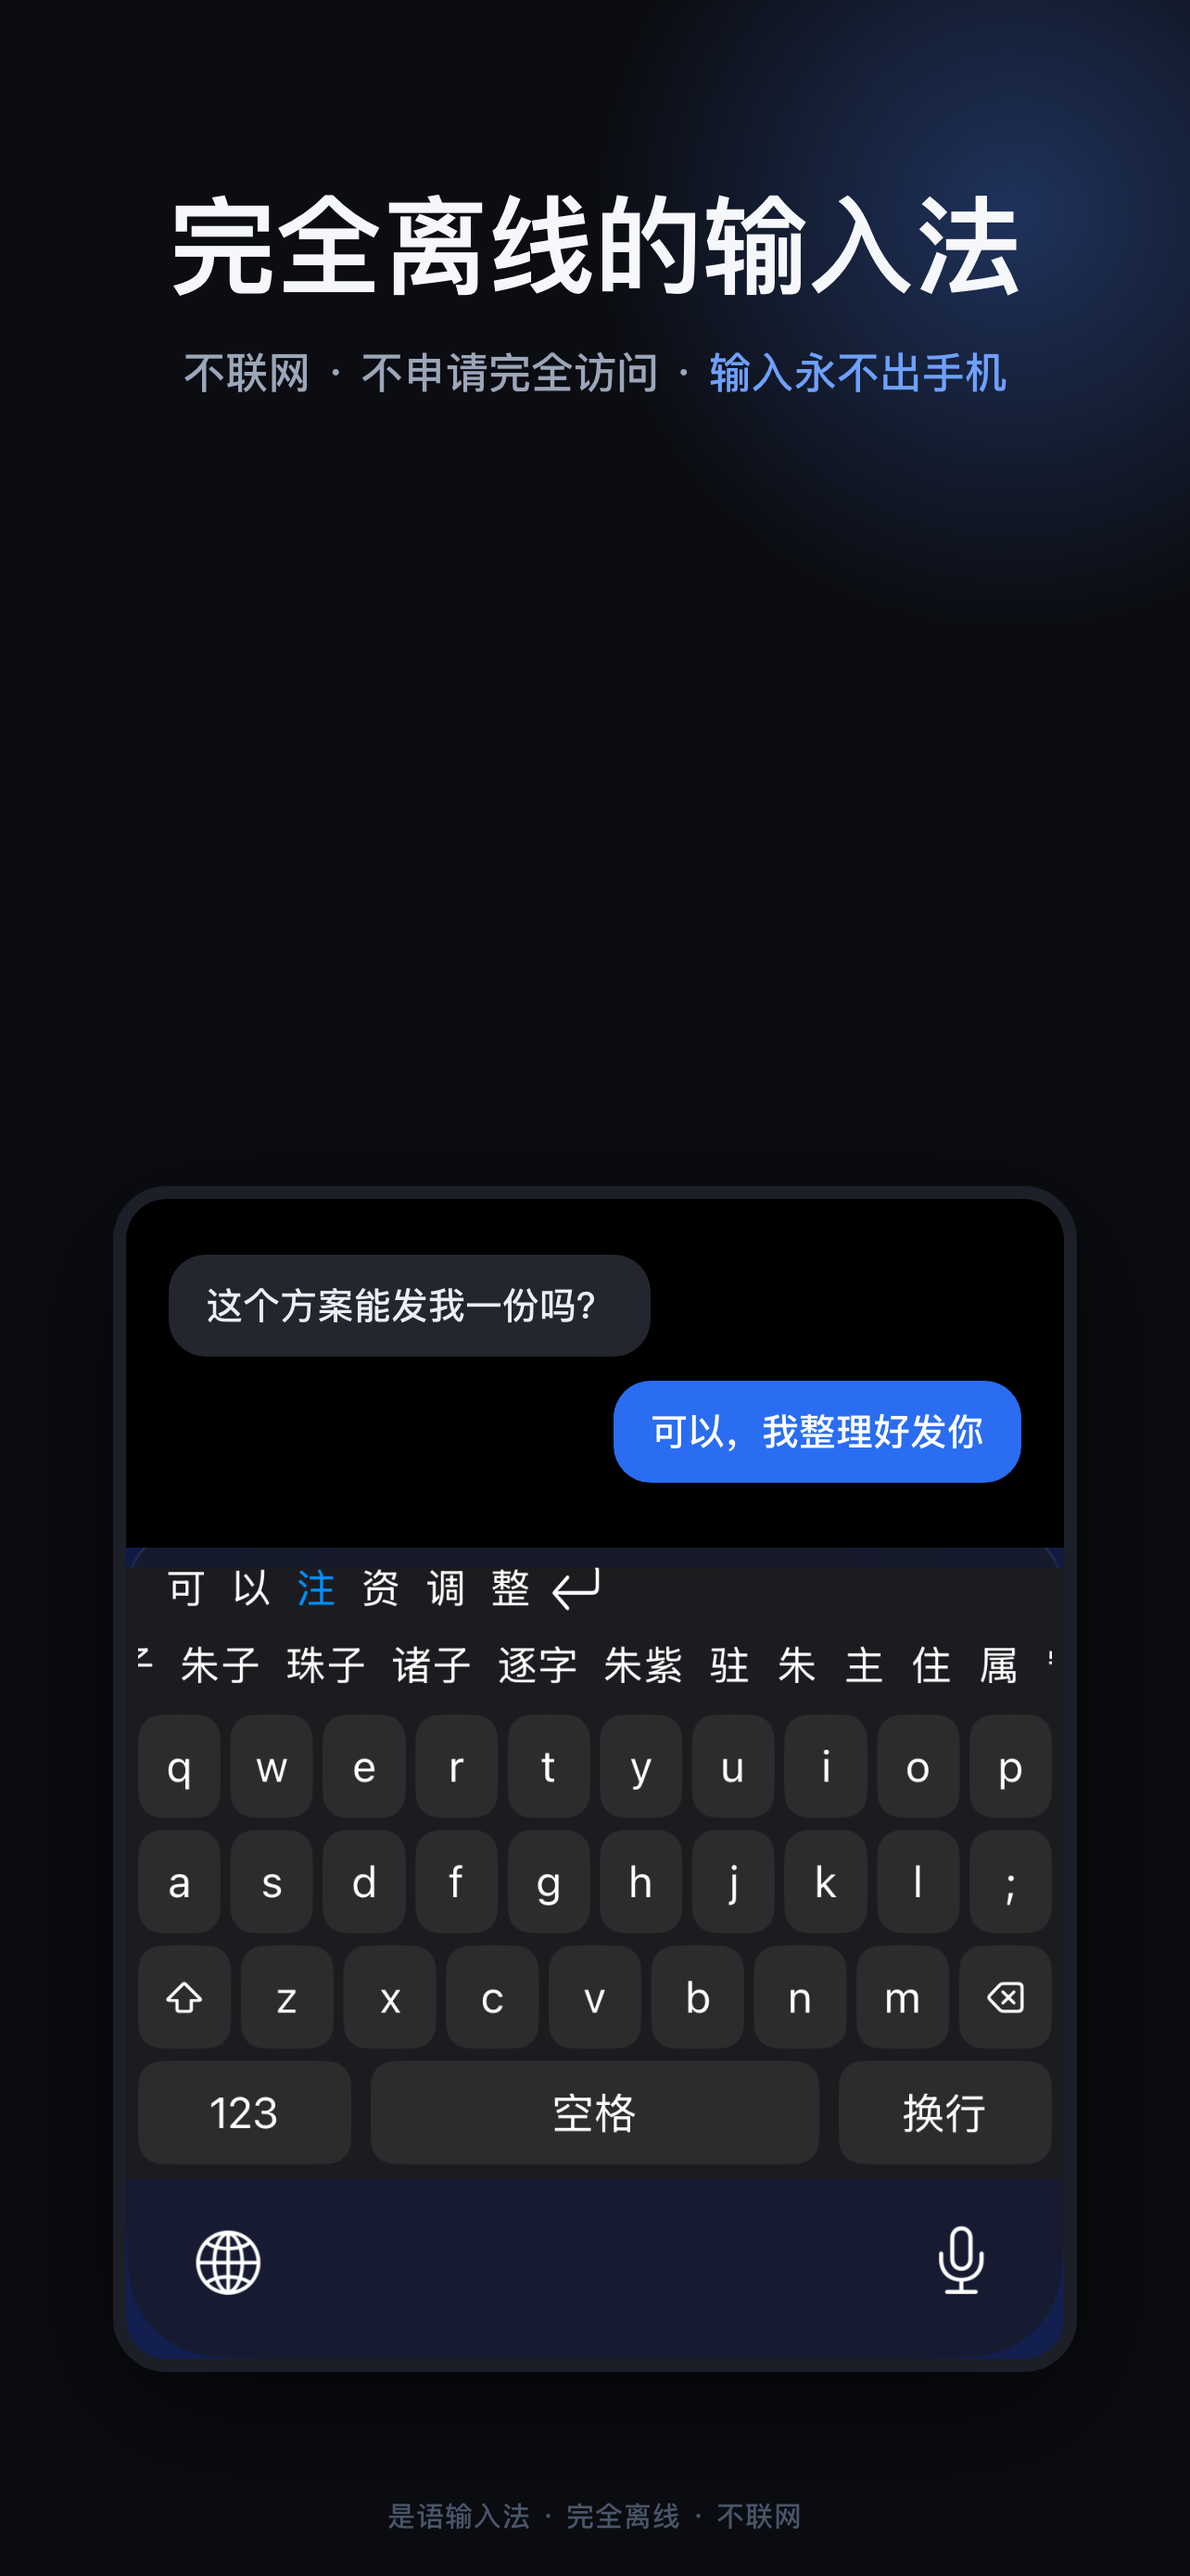
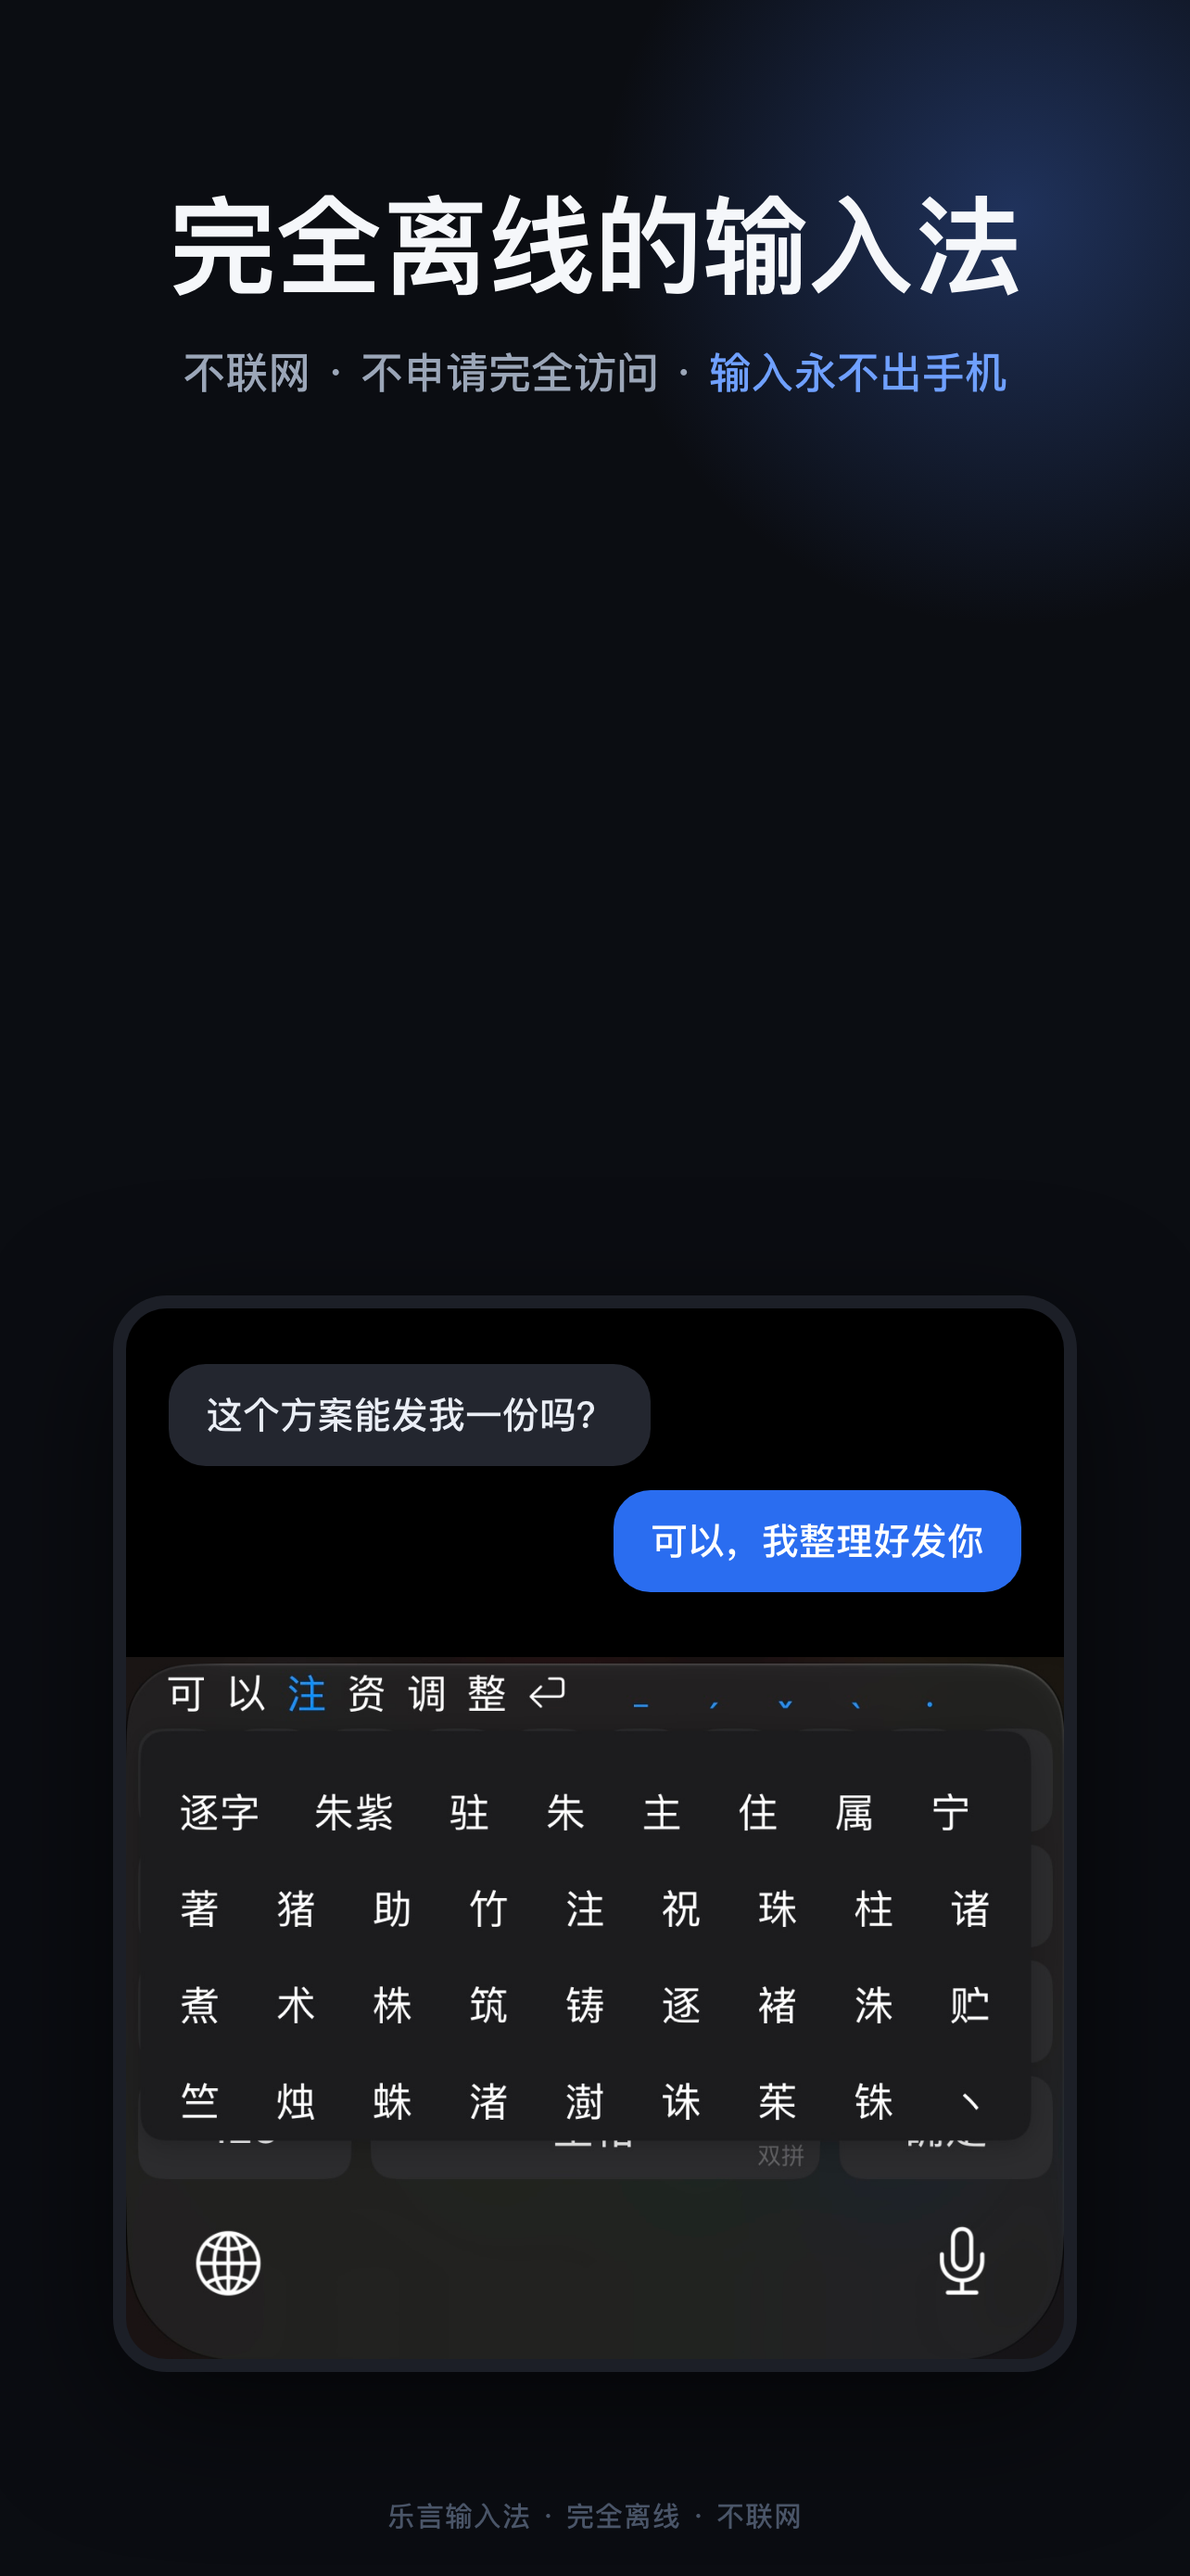
iOS: refresh App Store screenshots

diff --git a/iOS/store-assets/gen/template.html b/iOS/store-assets/gen/template.html
@@ -4,8 +4,8 @@
 <meta charset="utf-8">
 <style>
   :root {
-    --w: 1284px;
-    --h: 2778px;
+    --w: {{W}}px;
+    --h: {{H}}px;
   }
   * { margin: 0; padding: 0; box-sizing: border-box; }
   html, body { width: var(--w); height: var(--h); }
